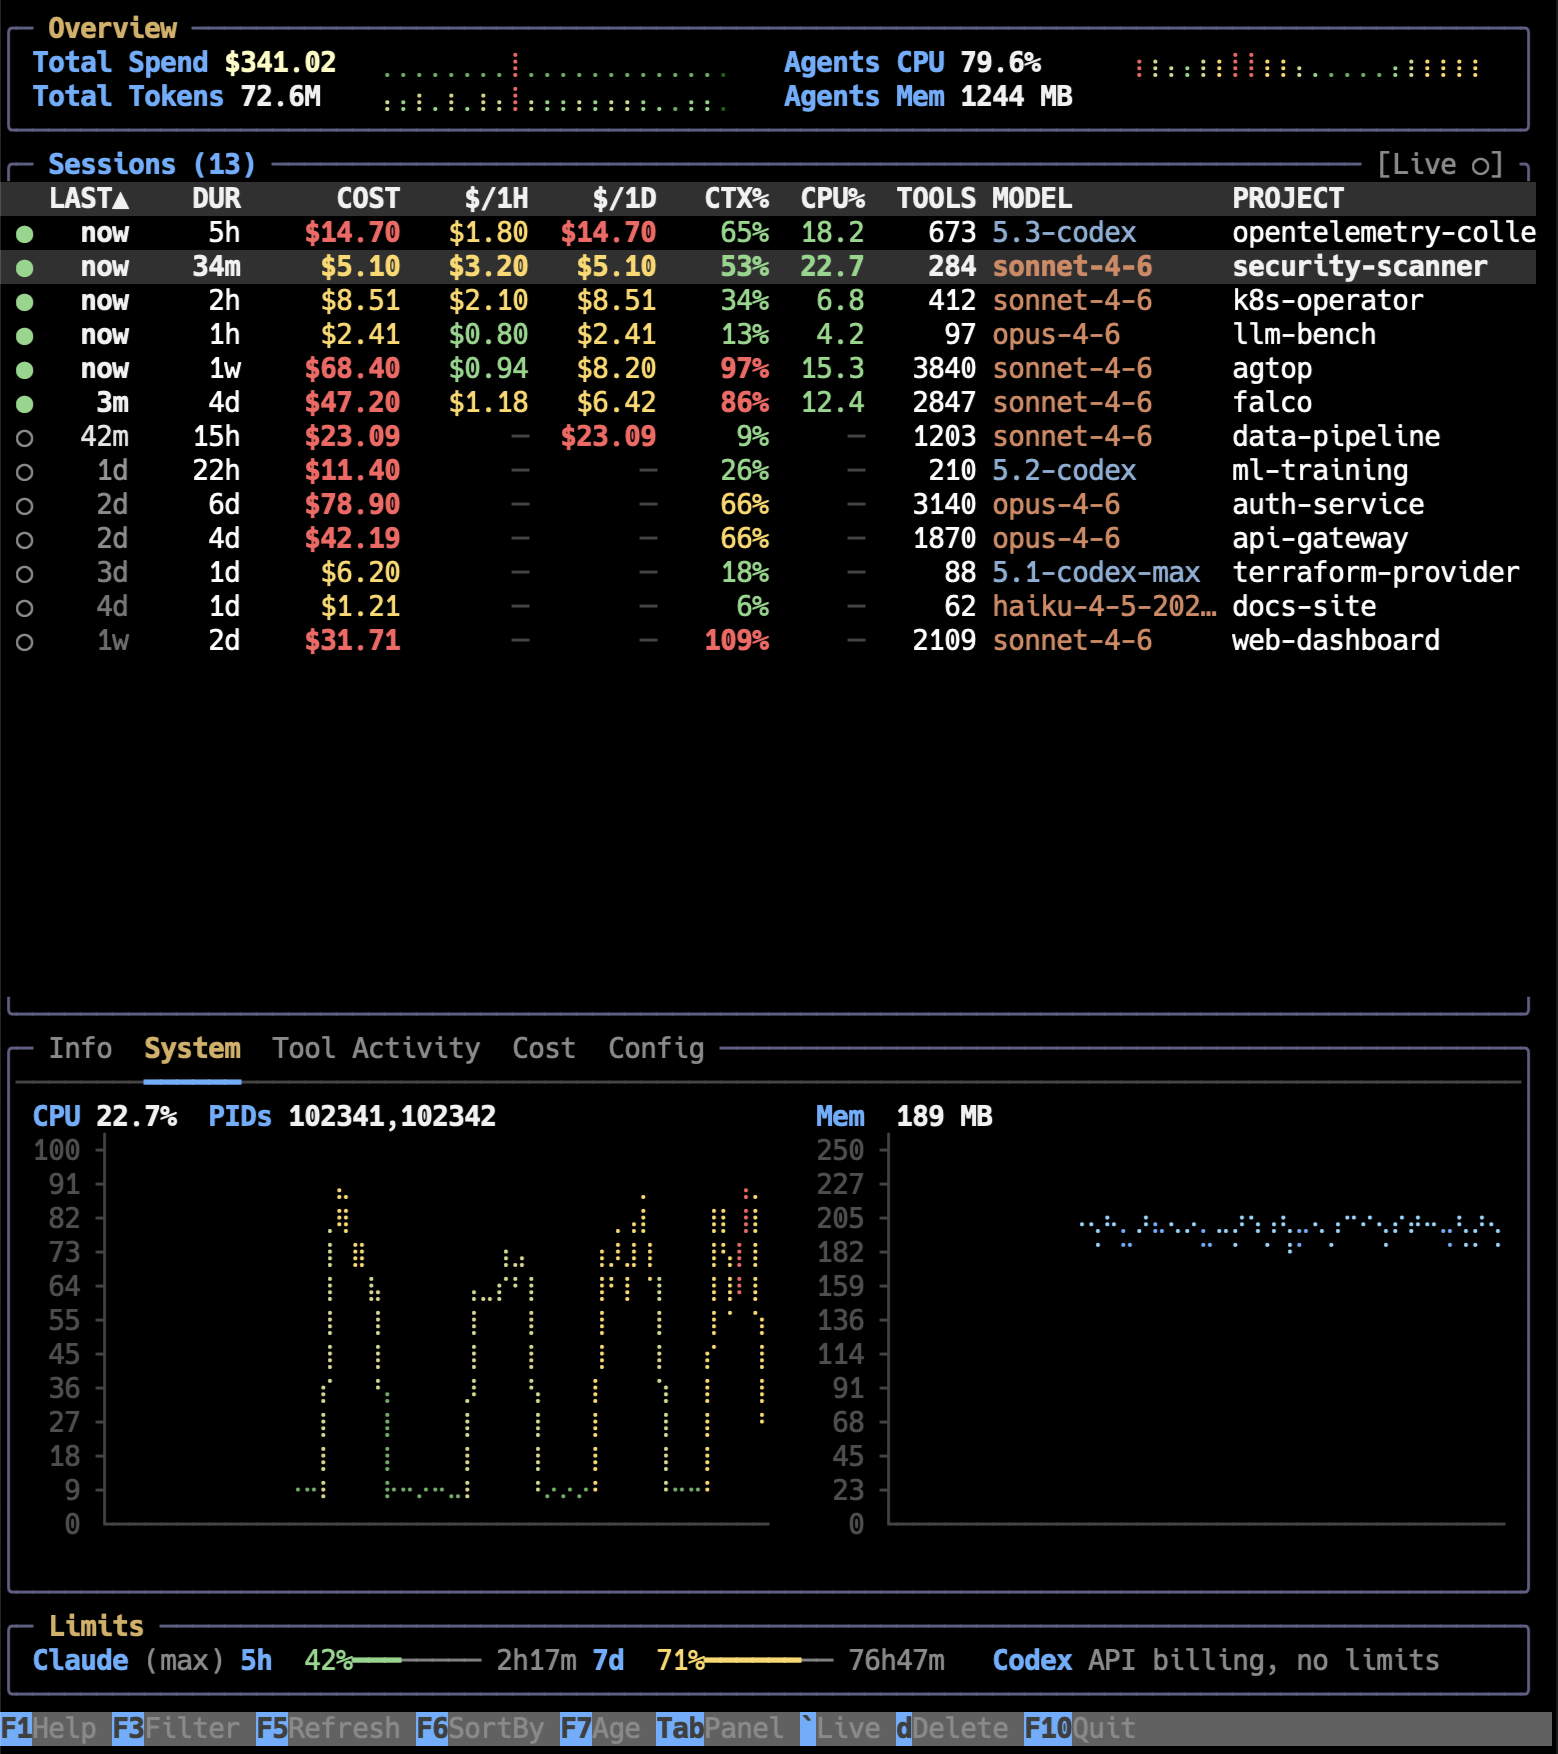
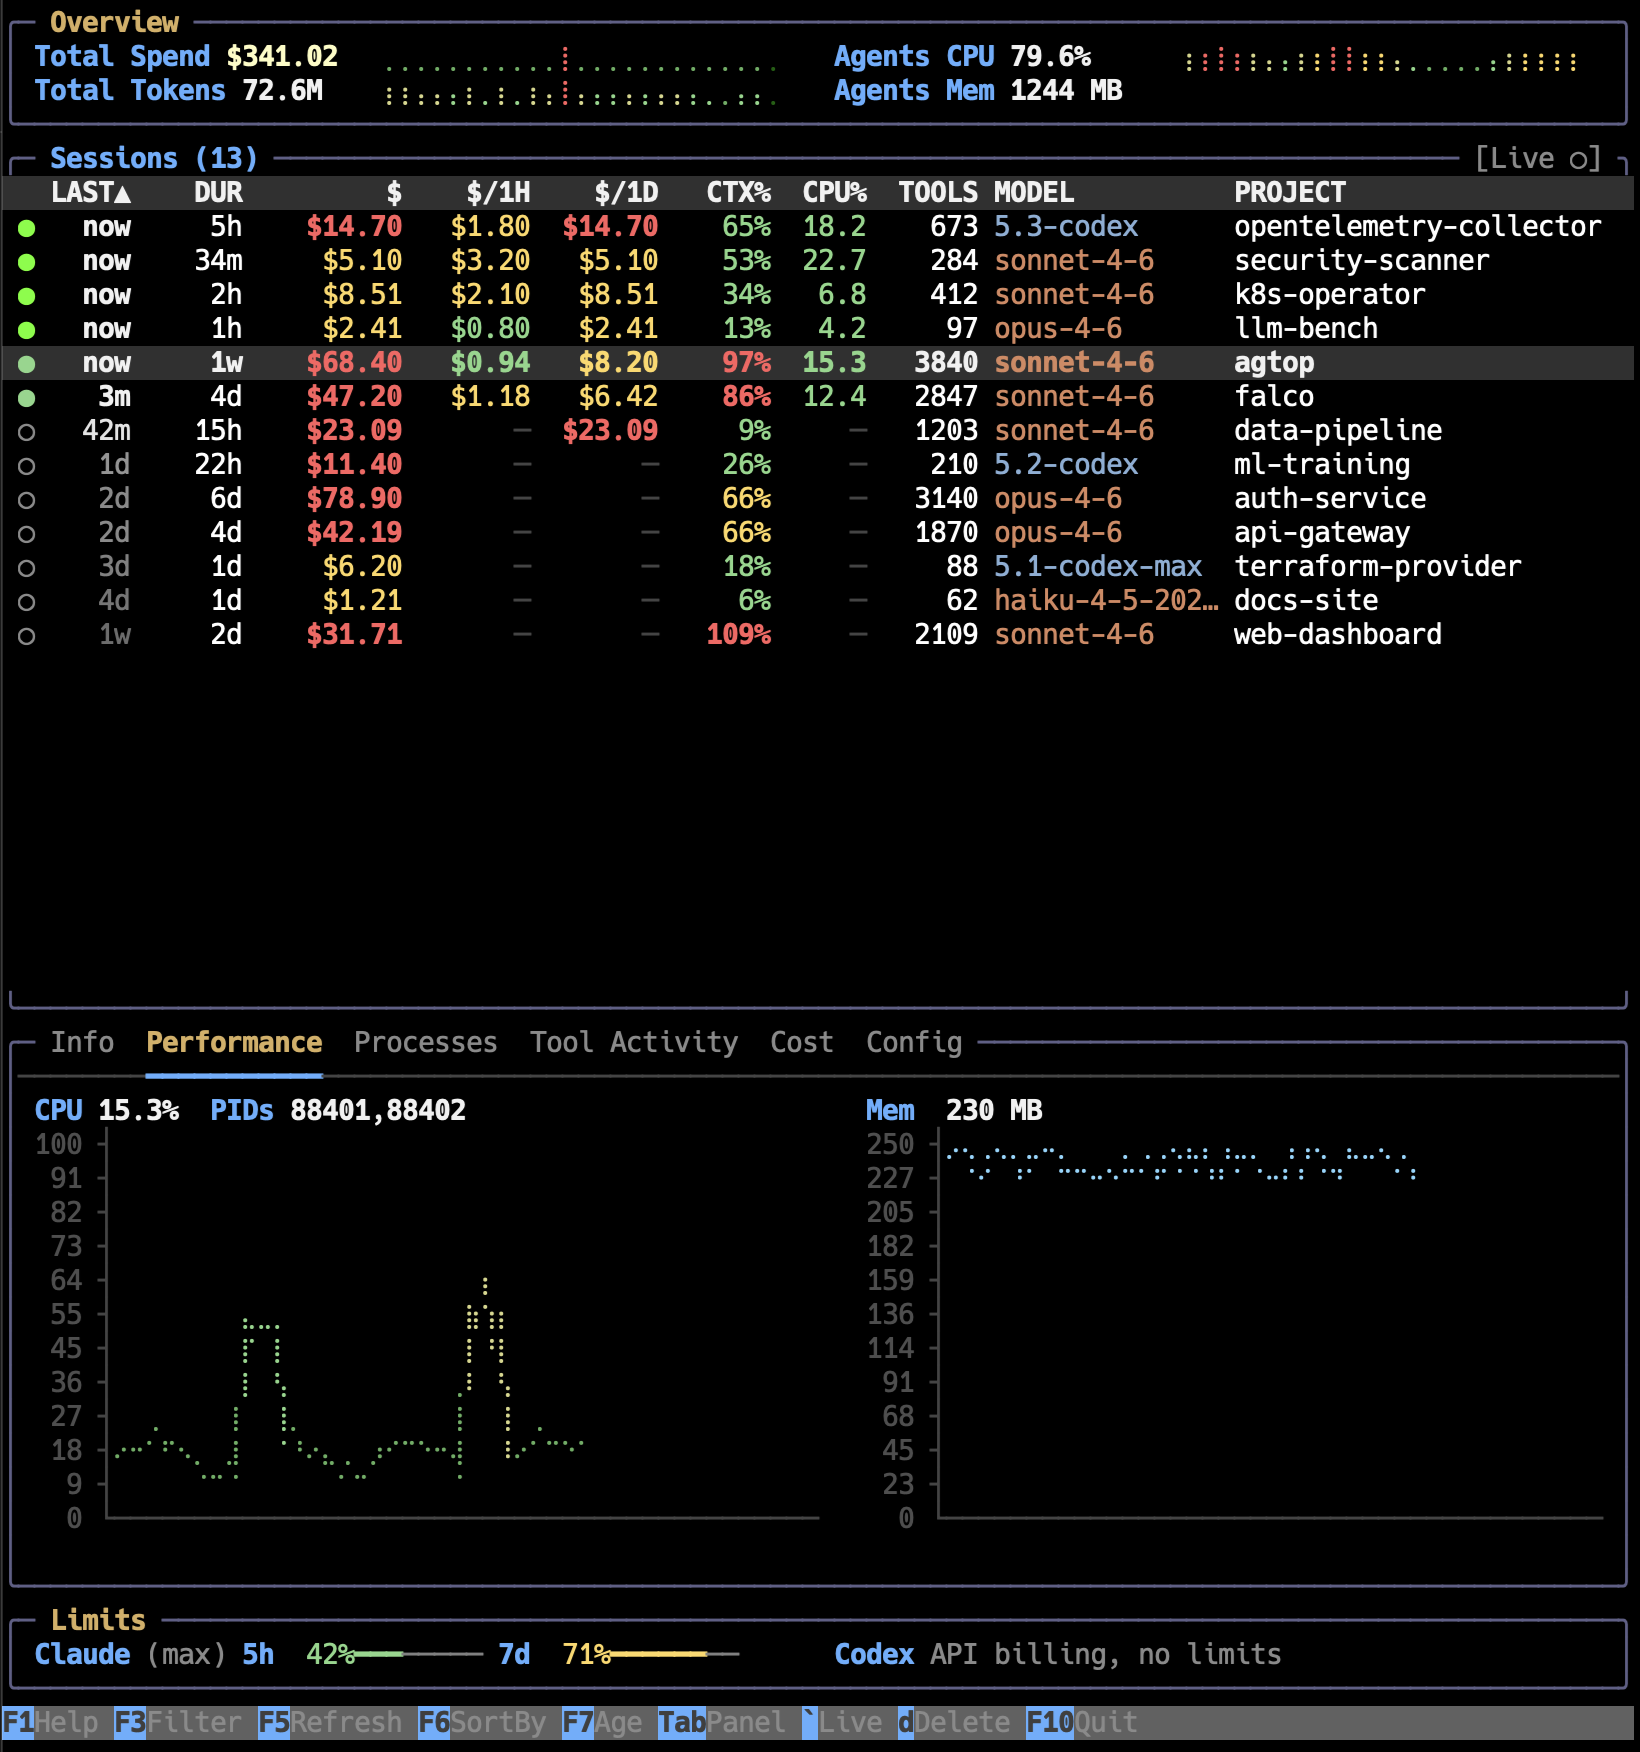
Update screenshots and README with Performance/Processes panels
Refreshed all screenshots from demo mode with updated fake data.
Added Performance and Processes panel screenshots to README.
Fixed package.json bin path and repo URL per npm pkg fix.

diff --git a/README.md b/README.md
@@ -86,6 +86,14 @@ agtop -d 3
 
 <img src="screenshots/panel-info.png" width="600" alt="Info panel">
 
+**Performance** — per-session CPU and memory sparkline charts over time
+
+<img src="screenshots/panel-performance.png" width="600" alt="Performance panel">
+
+**Processes** — live process tree with CPU%, memory, and command lines (C++ builds, caffeinate, etc.)
+
+<img src="screenshots/panel-processes.png" width="600" alt="Processes panel">
+
 **Tool Activity** — per-tool invocation counts and live feed with timestamps
 
 <img src="screenshots/panel-tool-activity.png" width="600" alt="Tool Activity panel">
